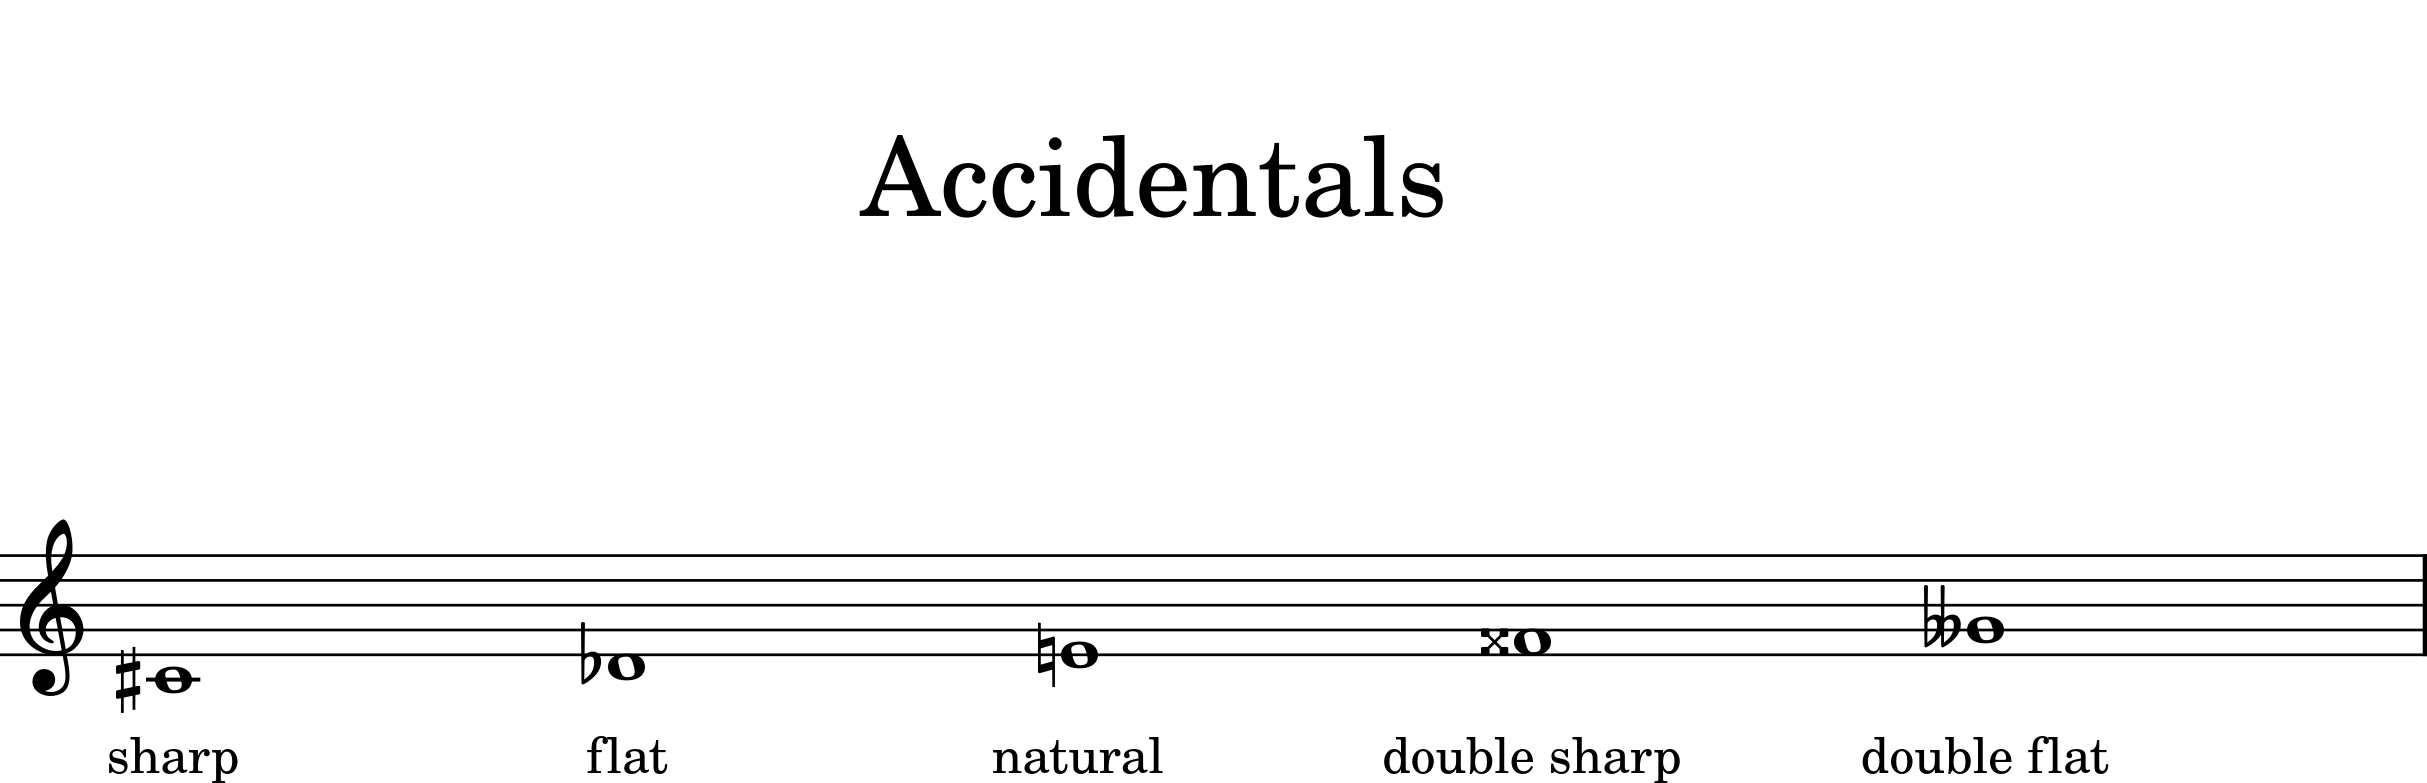
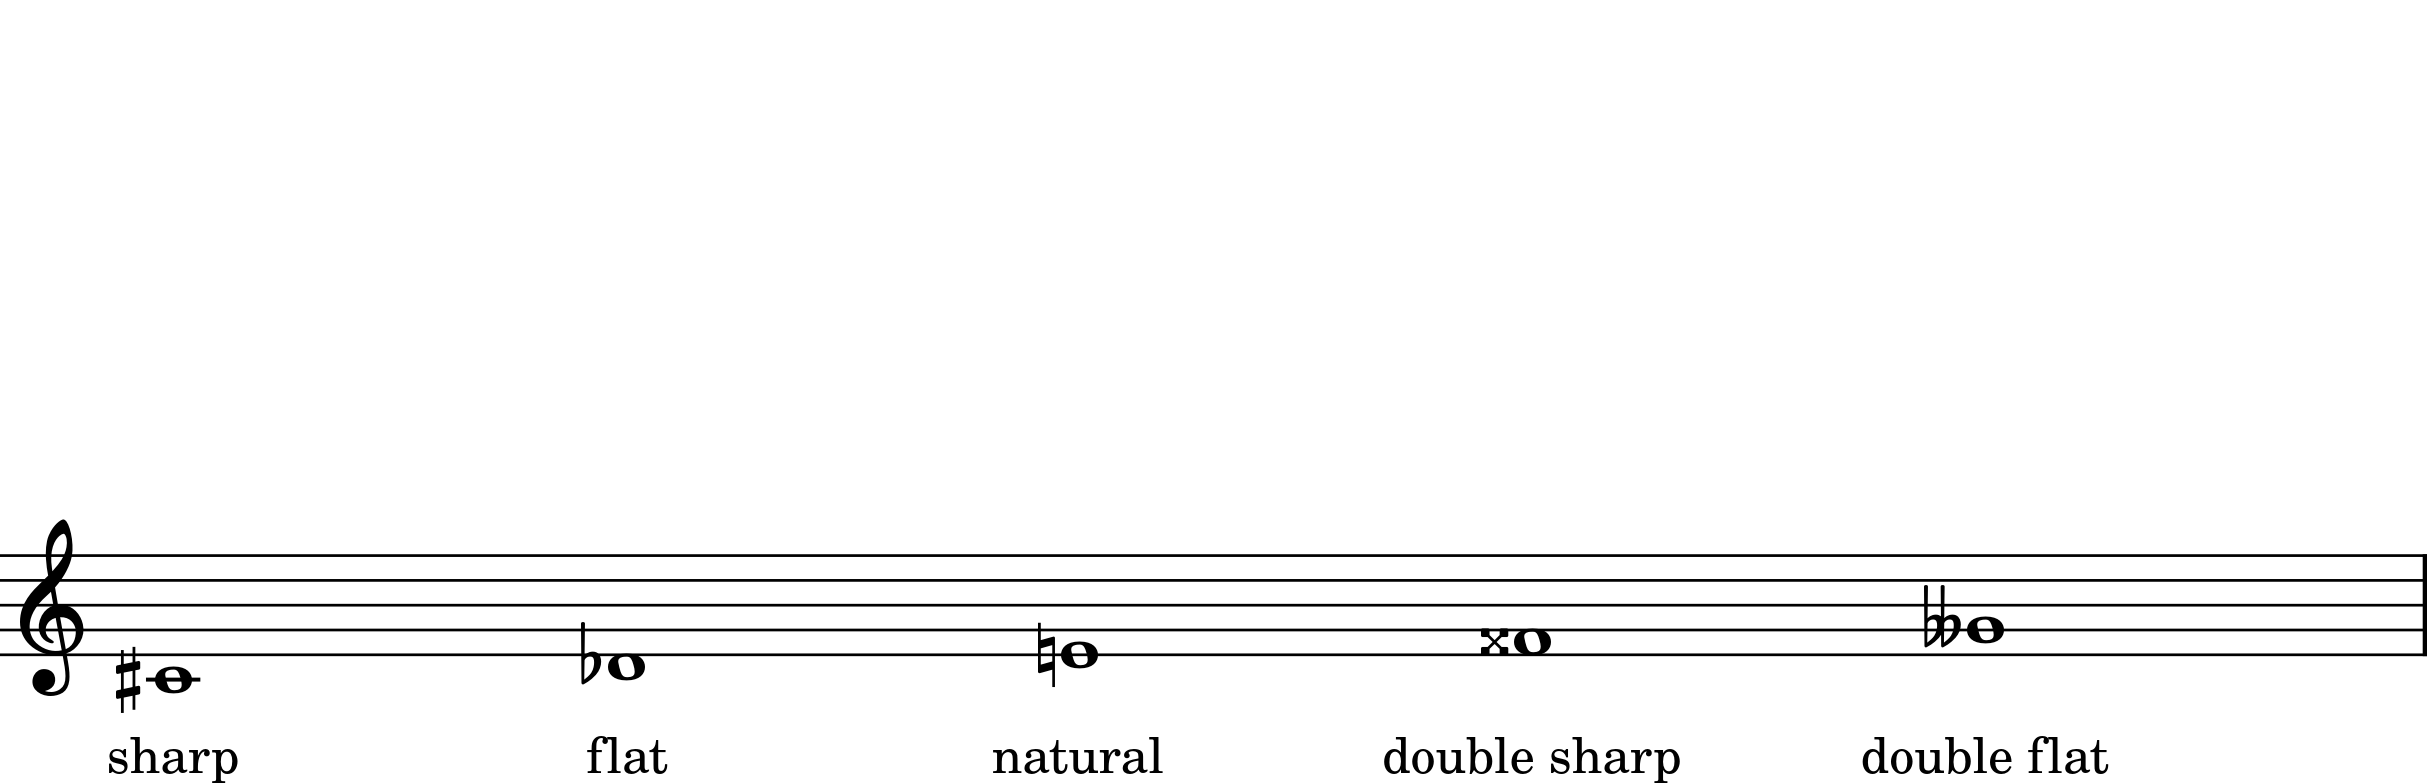
Add more images.

Changed region(s): [[0.3399, 0.1533, 0.618, 0.2759]]

diff --git a/ABC2M21/testtunes.py b/ABC2M21/testtunes.py
@@ -47,7 +47,6 @@ K:
 
 abc_note_duration = """
 X:1
-T:Relative durations
 L:1/4
 M:none
 K:C
@@ -57,7 +56,6 @@ w: 1/1  3/4  1/2  3/8   1/4  1/8  1/16  1/32  1/64
 
 abc_decoration_spanner = """
 X: 1
-T:Decoration spanner
 L:1/4
 K:C
 !<(!ABCD!<)! !>(!ABCD!>)! !trill(!ABCD!trill)!|
@@ -143,7 +141,6 @@ AG$F!D
 
 abc_rests = """
 X: 
-T:Rests
 L:1/4
 M:C
 K:
@@ -171,7 +168,6 @@ WC~C
 
 abc_auto_trill_spanner = """
 X: 
-T: Tune with trills
 L: 1/4
 M:C
 K:C
@@ -222,7 +218,6 @@ K:E
 abc_broken_rhythm = """
 X:0
 L:1/4
-T:Broken rhythm
 M:C
 K:C
 >F>FA<A | G<<GB>>B | C>>>C D<<<D | [CEG]>E E<[EGB] |
@@ -257,7 +252,6 @@ K:
 
 abc_dynamics = """
 X: 0
-T: Dynamics
 L: 1/4
 K:C
 !p!C !pp!C !ppp!C !pppp!C !f!C !ff!C !fff!C !ffff!C !mp!C !mf!C !sfz!C
@@ -265,7 +259,6 @@ K:C
 
 abc_expressions = """
 X: 0
-T: Expressions
 L: 1/4
 K:C
 !invertedfermata!C !trill!C !mordent!C !fermata!C !turn!C !arpeggio!'C !slide!C !uppermordent!C
@@ -274,7 +267,6 @@ w:!invertedfermata! !trill! !lmordent! !fermata!  !turn!  !arpeggio!   !slide!  
 
 abc_articulations = """
 X: 0
-T: Articulations
 L: 1/4
 K:C
 !staccato!C  !>!C !downbow!C !^!C !breath!C !tenuto!C !upbow!C !open!C !+!C !snap!C !nail!C
@@ -283,7 +275,6 @@ w:!staccato! !>!  !downbow!  !^!  !breath!  !tenuto!  !upbow!  !open!  !+!  !sna
 
 abc_repeat_marker = """
 X: 0
-T: Repeat marker
 L: 1/4
 K:C
   !segno!C  | !coda!C | !fine!C | !D.S.!C | !D.S.alcoda!C | !D.S.alfine!C | !dacapo!C | !D.C.alcoda!C
@@ -292,7 +283,6 @@ w:!segno!     !coda!    !fine!    !D.S.!    !D.S.alcoda!    !D.S.alfine!    !dac
 
 abc_repeat_bar_lines = """
 X: 2
-T:Barlines
 M:4/4
 L:1/4
 K:C
@@ -318,8 +308,6 @@ abc_unison = """
 [DD]
 """
 abc_extended_tuplet = """
-X:0
-T:shorthand decoration
 K:C
 (3:2:4 G2A2Bc
 """
@@ -330,7 +318,6 @@ abc_chord_example = """
 
 abc_tuplets = """
 X:2
-T:Simple Tuplets
 M:4/4
 K:E
 (3.c=c^c (5ccc=cc (6ccccc=f (7Bcc^^c=cc^f
@@ -609,7 +596,6 @@ K:
 
 abc_accidentals = """
 X:1
-T: Accidentals
 L:1/1
 K:C
    ^C     _D   =E      ^^F          __G
@@ -653,7 +639,6 @@ CDEFGAAB|[K: F]DEFG[K: E]AABC|
 """
 
 abc_pitch_octaves = """X:1
-T:Pitches Across Various Octaves
 L:1/1
 K:C
    C, D, E, F, G, A, B, C D E F G A B c d e f g a b c' d' e' f' g' a' b' |
@@ -672,7 +657,7 @@ uG G F F|E E D2|vC C G G|A A G2|uF F E E|D D C2|]
 
 abc_propagate_accidentals = """
 X:1
-T:Propagate-accidentals directive
+T:Propagate-accidentals
 M:4/4
 L:1/4
 K:C
@@ -770,7 +755,6 @@ abc_ave_maria = """%abc-2.1
 X:1
 T:Ave Maria (Ellen's Gesang III) - Page 1
 C:Franz Schubert
-C:Marian Schulz
 %%score 1 (2 | 3)
 L:1/8
 Q:1/4=26
@@ -912,7 +896,6 @@ clef = """
 
 abc_simple_grace = """
 X: 1
-T: Grace notes
 L: 1/2
 K: C
 "^Appoggiatura"{g}E {GdGe}F | "^Acciaccatura"{/g}E {/GdGe}F |

diff --git a/ABC2M21/unittests.py b/ABC2M21/unittests.py
@@ -248,7 +248,7 @@ class TestFiles(unittest.TestCase):
         self.assertIsInstance(notes[2].expressions[0], expressions.Trill)
 
         # Check the debug message about legacy decoration and token
-        self.assertIn("Cannot parse this chord ( + dialect). Maybe it is a abc 2.0 decoration?", debug_messages)
+        self.assertIn("Cannot parse this chord (+ dialect). Perhaps it is in the + decoration dialect?", debug_messages)
         self.assertIn("<decoration_or_chord: '+trill+' (pos=3)>", debug_messages)
 
     def test_tune_header(self):
@@ -420,7 +420,7 @@ class TestFiles(unittest.TestCase):
         self.assertEqual(2, durations[1.875])
         self.assertIn("Overlay: Remove unfinished broken rhythm", debug_messages)
         self.assertIn("TuneBody: Ignore broken rhythm. No left side note.", debug_messages)
-        self.assertIn("<broken_rhythm: '>' (pos=30)>", debug_messages)
+        self.assertIn("<broken_rhythm: '>' (pos=14)>", debug_messages)
 
     def test_decorations(self):
         with patch('sys.stderr', new_callable=StringIO) as mock_stdout:

diff --git a/ABC2M21/ABCParser.py b/ABC2M21/ABCParser.py
@@ -2911,7 +2911,7 @@ class TuneBody(TuneHeader, NoteMixin):
             try:
                 self.abc_chord(token)
             except ABCException as e:
-                self.abc_error("Cannot parse this chord ( + dialect). Maybe it is a abc 2.0 decoration?", token)
+                self.abc_error("Cannot parse this chord (+ dialect). Perhaps it is in the + decoration dialect?", token)
 
         elif self.is_legacy_abc_decoration:
             self.abc_decoration(token)

diff --git a/ABCPNG.md b/ABCPNG.md
@@ -34,9 +34,6 @@ xmlconv.write(m21_stream, fmt='musicxml', fp="myfile.png", subformats=['png'])
 Example:
 ```
 X:1
-T: Pitches Across Various Octaves
-L:1/8
-K:C
 K:C
    C, D, E, F, G, A, B, C D E F G A B c d e f g a b c' d' e' f' g' a' b' |
 w: C, D, E, F, G, A, B, C D E F G A B c d e f g a b c' d' e' f' g' a' b' 
@@ -48,10 +45,10 @@ In ABC notation, accidentals are written before the note using symbols such as ^
 Double sharps and flats are denoted by ^^ and __ respectively.
 ```
 X:1
-T: accidentals
-L:1/8
+L:1/1
 K:C
-^C _D =E ^^F __G
+   ^C     _D   =E      ^^F          __G
+w: sharp  flat natural double~sharp double~flat
 ```
 ![abc pitches over serval octave](images/accidentals.png)
 
@@ -60,7 +57,6 @@ The note duration is relative to the `unit not length`.
 
 ```
 X:1
-T:Relative durations
 L:1/4
 M:none
 K:C
@@ -90,7 +86,6 @@ Example:
 ```
 X:0
 L:1/4
-T:Broken rhythm
 M:C
 K:C
 >F>F A<A | G<<G B>>B | C>>>C D<<<D | [CEG]>E E<[EGB] |
@@ -109,7 +104,6 @@ TODO:
 
 ```
 X: 
-T:Rests
 L:1/4
 M:C
 K:
@@ -143,7 +137,6 @@ Todo:
 
 ```
 X: 2
-T:Barlines
 M:4/4
 L:1/4
 K:C
@@ -199,7 +192,6 @@ Todo:
 
 ```
 X: 1
-T: Grace notes
 L: 1/2
 K: C
 "^Appoggiatura"{g}E {GdGe}F | "^Acciaccatura"{/g}E {/GdGe}F |
@@ -233,7 +225,6 @@ quadruplet, extending up to (9.
 If the time signature is compound (6/8, 9/8, 12/8) then n is three, otherwise n is two.
 ```
 X:2
-T:Simple Tuplets
 M:4/4
 K:E
 (3.c=c^c (5ccc=cc (6ccccc=f (7Bcc^^c=cc^f
@@ -290,7 +281,6 @@ or 'p' for piano (soft).
 
 ```
 X: 0
-T: Dynamics
 L: 1/4
 K:C
 !p!C !pp!C !ppp!C !pppp!C !f!C !ff!C !fff!C !ffff!C !mp!C !mf!C !sfz!C
@@ -303,7 +293,6 @@ Crescendo, diminuendo, and trill decorations can be spanned across multiple note
 
 ```
 X: 1
-T:Decoration spanner
 L:1/4
 K:C
 !<(!ABCD!<)! !>(!ABCD!>)! !trill(!ABCD!trill)!
@@ -320,7 +309,6 @@ Note:
 
 ```
 X: 0
-T: Expressions
 L: 1/4
 K:C
   !invertedfermata!C !trill!C !mordent!C !fermata!C !turn!C !arpeggio!'C !slide!C !uppermordent!C
@@ -333,7 +321,6 @@ The trill spanner is a recent addition, but ABC2M21 is capable of grouping adjac
 into a music21 trill extension spanner.
 ```
 X: 
-T: Tune with trills
 L: 1/4
 M:C
 K:C
@@ -357,7 +344,6 @@ Note:
 
 ```
 X: 0
-T: Articulations
 L: 1/4
 K:C
   !staccato!C  | !>!C     | !downbow!C | !^!C | !breath!C |
@@ -372,7 +358,6 @@ ABC decorations encompass a variety of music21 concepts, including repeat marker
 
 ```
 X: 0
-T: Repeat marker
 L: 1/4
 K:C
   !segno!C  | !coda!C | !fine!C | !D.S.!C | !D.S.alcoda!C | !D.S.alfine!C | !dacapo!C | !D.C.alcoda!C
@@ -386,7 +371,6 @@ ABC decorations encompass a variety of music21 concepts, including fingering mar
 ```
 X:0
 L:1/4
-T:Fingerings
 M:C
 K:C
 !1!E !2!G !3!E !4!F !5!G 
@@ -418,7 +402,6 @@ TODO:
 Example:
 ```
 X:1
-T:User defined symbols
 L:1/4
 U:W = !trill!
 U:U = !staccato!
@@ -514,7 +497,7 @@ Note:
 
 ```
 X:1
-T:Propagate-accidentals directive
+T:Propagate-accidentals
 M:4/4
 L:1/4
 K:C
